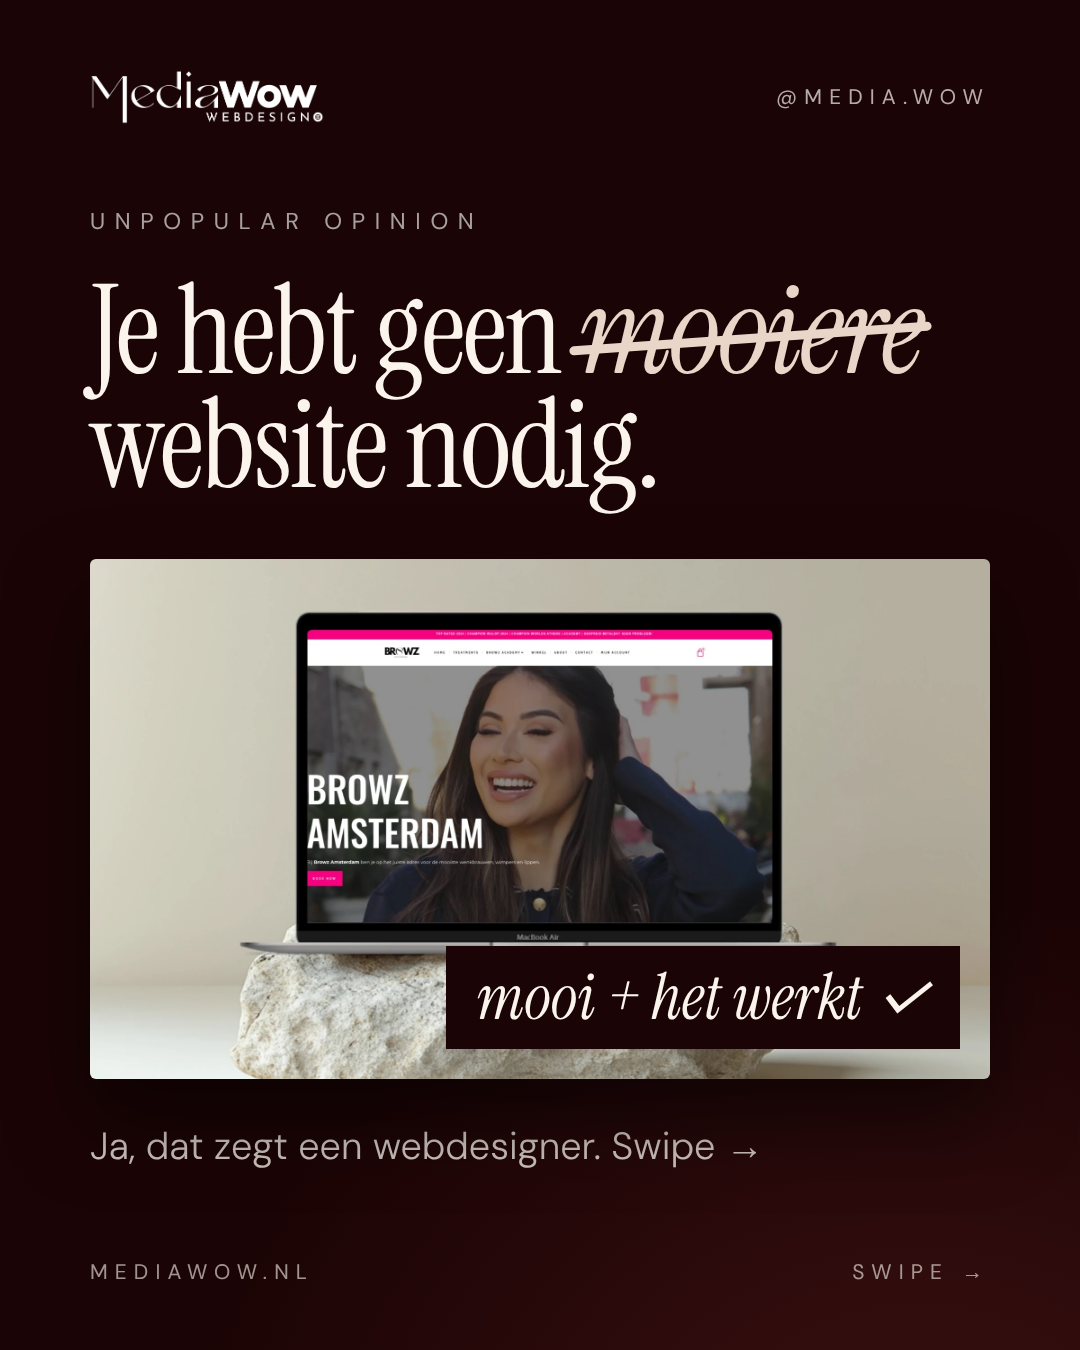
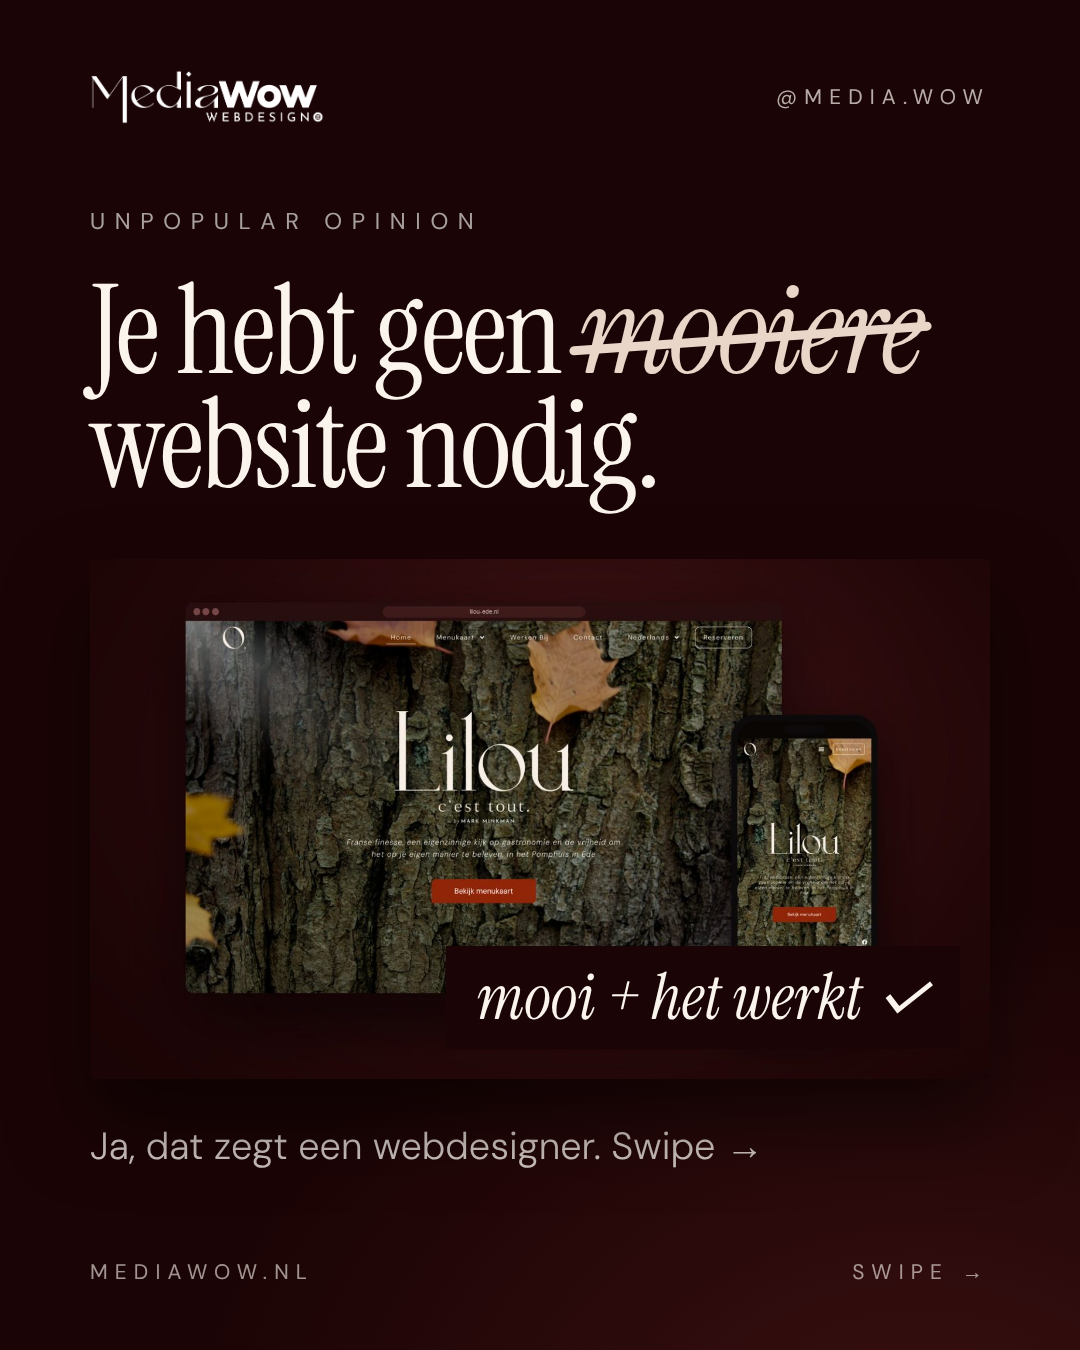
Sunday cover: Lilou mockup instead of Browz
Claude-Session: https://claude.ai/code/session_01RBQ5c9Pv2G8CobvSf5vDwJ

Changed region(s): [[0.0611, 0.4044, 0.9167, 0.8089]]

diff --git a/instagram/slides.js b/instagram/slides.js
@@ -372,7 +372,7 @@ Hoe ga jij om met no-shows? 👇
       { theme: 'dark', html: `
         <div class="kicker">Unpopular opinion</div>
         <h1 class="hero" style="font-size:124px">Je hebt geen <span class="strike">mooiere</span> website nodig.</h1>
-        <div class="laptop-wrap"><img src="{{img:mw-mockup-browz-amsterdam-1-6.jpg}}"><div class="neq">mooi + het werkt ✓</div></div>
+        <div class="laptop-wrap"><img src="{{img:mw-home-horeca-1-1536x1152.jpg}}"><div class="neq">mooi + het werkt ✓</div></div>
         <p class="lead">Ja, dat zegt een webdesigner. Swipe →</p>` },
       { theme: 'dark', html: `
         <h1 class="xl">Je hebt een website nodig die iets <em>dóét.</em></h1>
